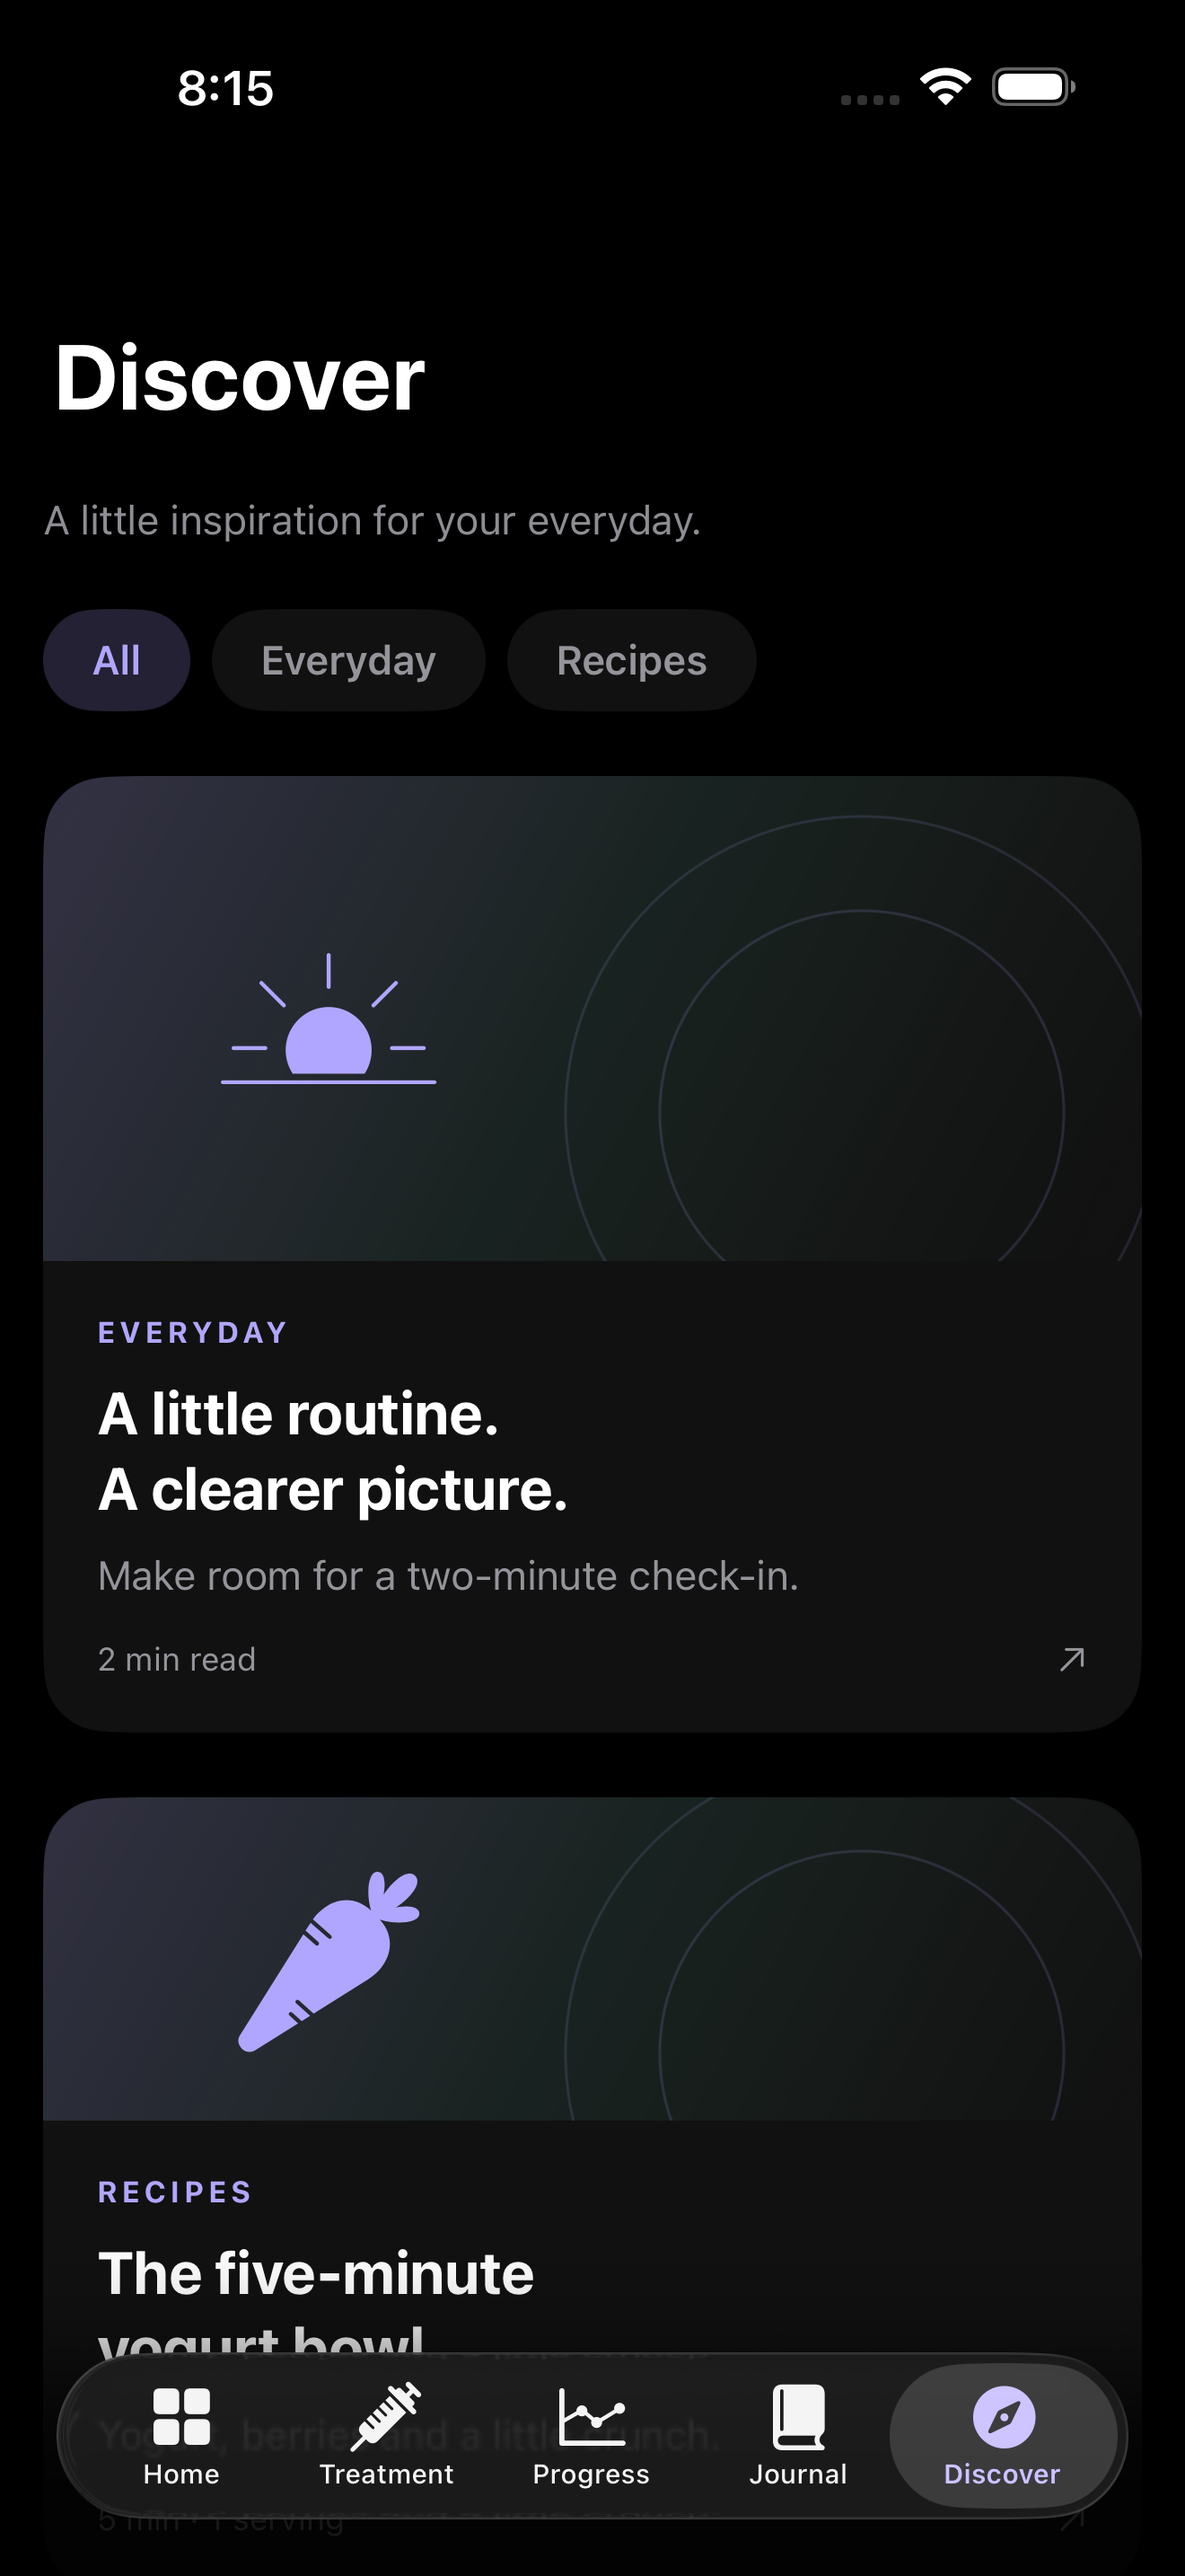
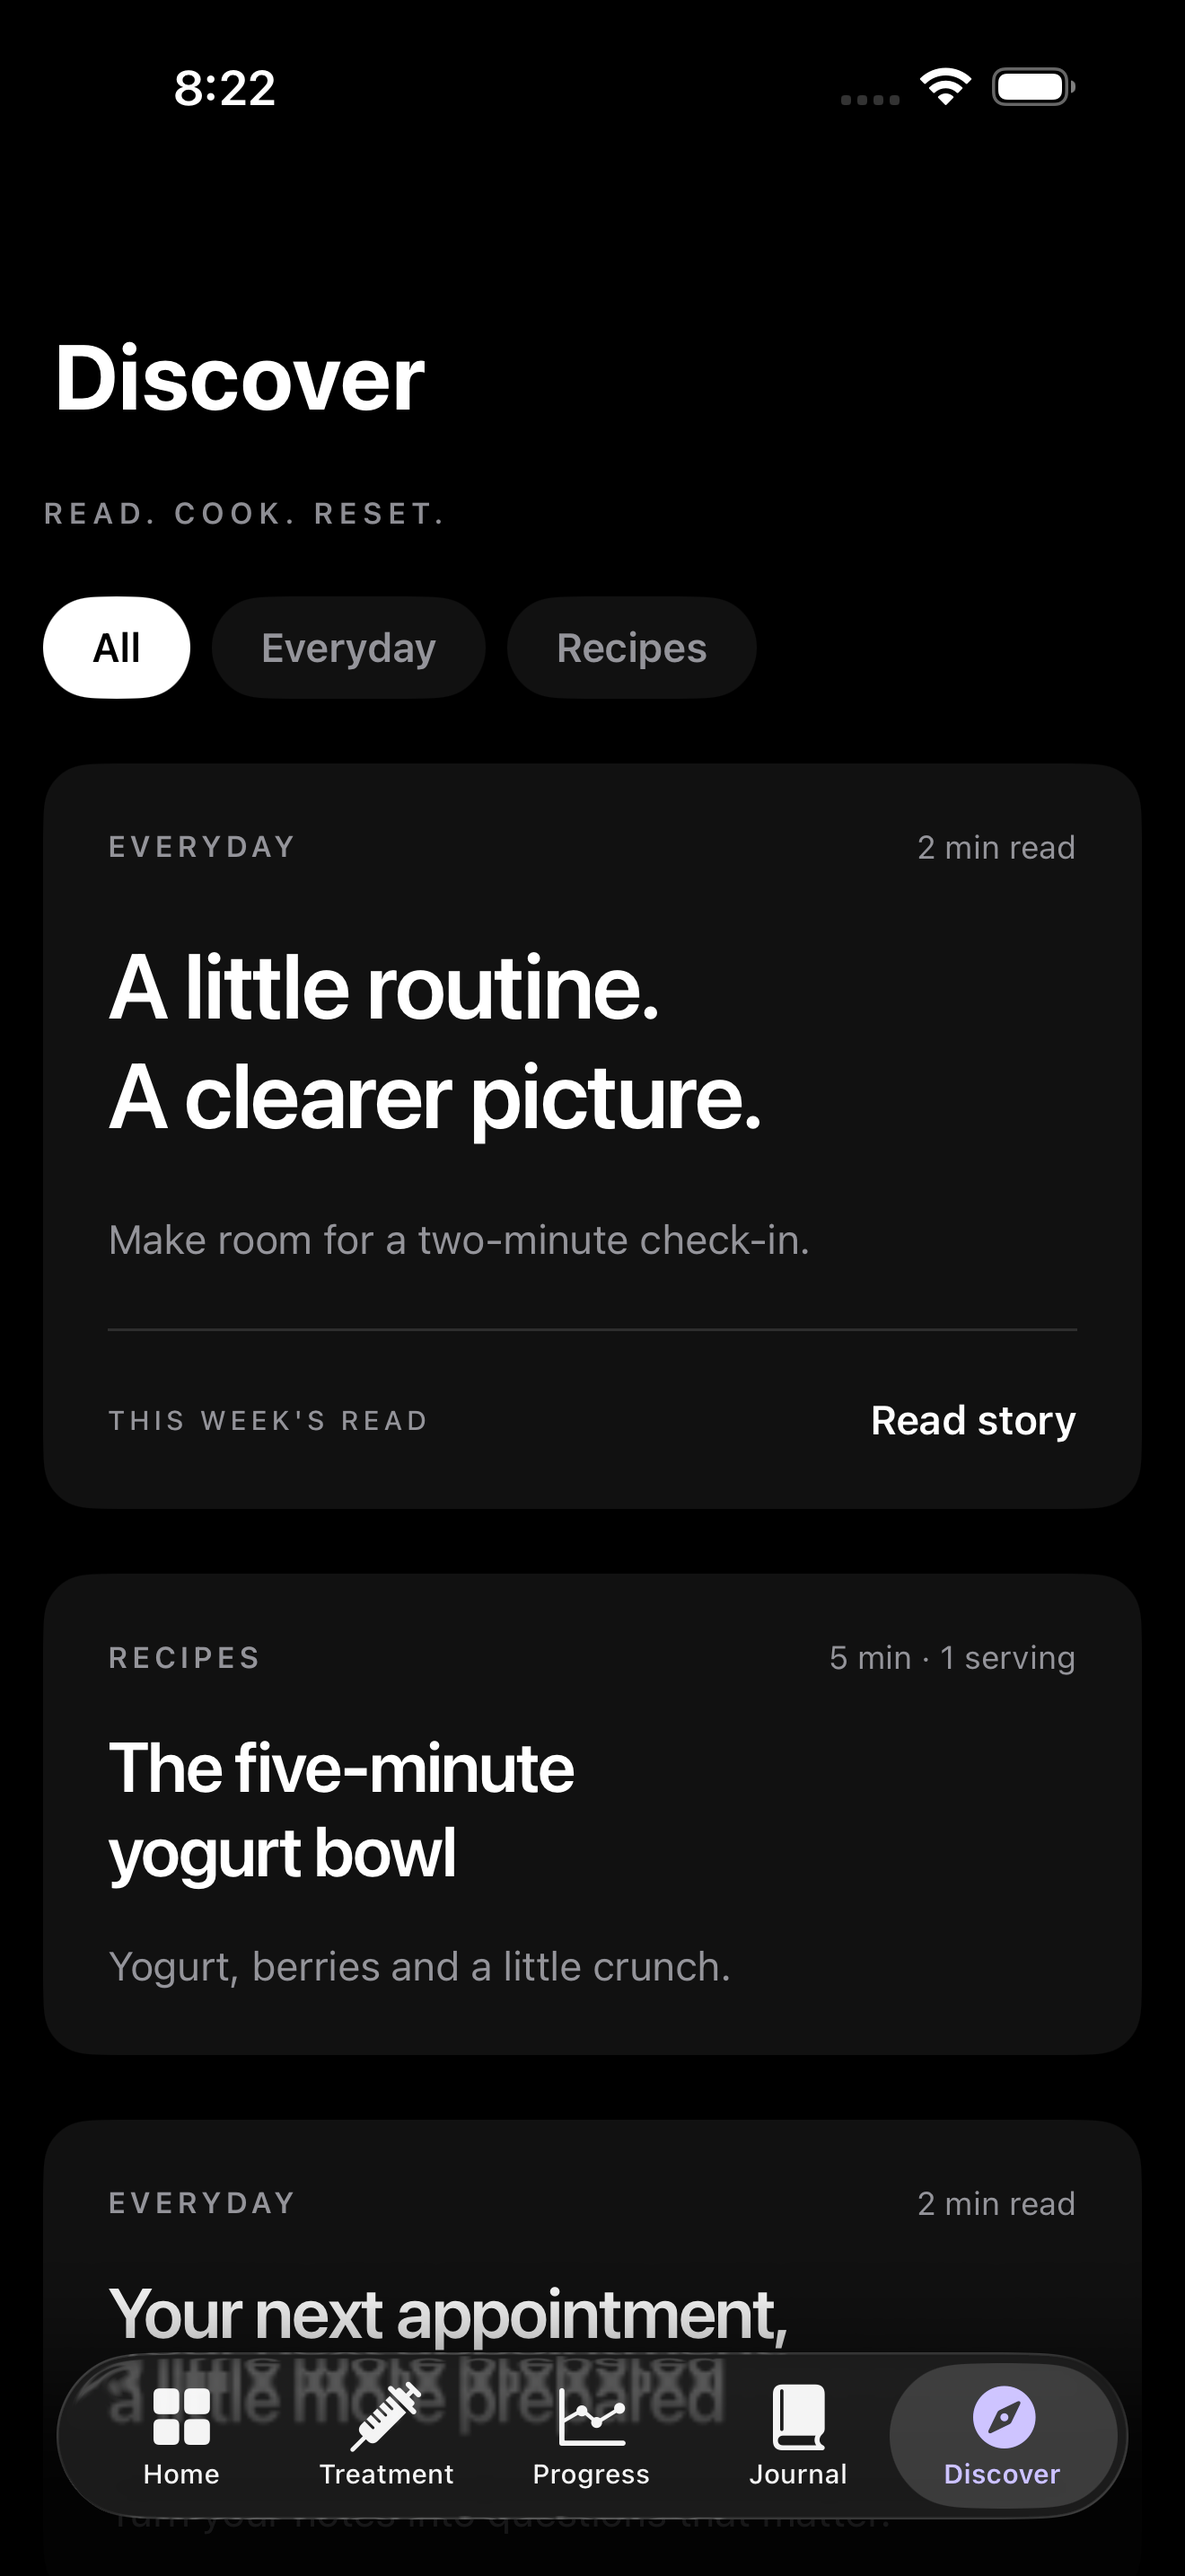
Replace decorative Discover artwork with flat editorial layout

diff --git a/Still/Features/Discover/DiscoverView.swift b/Still/Features/Discover/DiscoverView.swift
@@ -6,18 +6,17 @@ private struct Editorial: Identifiable {
     let title: String
     let summary: String
     let duration: String
-    let symbol: String
     let sections: [(String, String)]
     static let collection: [Editorial] = [
-        .init(id: "journal", category: "Everyday", title: "A little routine.\nA clearer picture.", summary: "Make room for a two-minute check-in.", duration: "2 min read", symbol: "sun.horizon.fill", sections: [
+        .init(id: "journal", category: "Everyday", title: "A little routine.\nA clearer picture.", summary: "Make room for a two-minute check-in.", duration: "2 min read", sections: [
             ("Keep it easy", "Choose a moment that already belongs to your day: after brushing your teeth, before breakfast, or when you put your phone on charge. Open your journal and record what you want to remember."),
             ("Leave yourself a useful note", "A short observation is enough. You might note when you weighed yourself, how your appetite felt, or a question you want to take to your next appointment."),
             ("Come back without catching up", "A missed entry does not need a perfect reconstruction. Add what you remember, choose the actual date, and carry on from today.")]),
-        .init(id: "bowl", category: "Recipes", title: "The five-minute\nyogurt bowl", summary: "Yogurt, berries and a little crunch.", duration: "5 min · 1 serving", symbol: "carrot.fill", sections: [
+        .init(id: "bowl", category: "Recipes", title: "The five-minute\nyogurt bowl", summary: "Yogurt, berries and a little crunch.", duration: "5 min · 1 serving", sections: [
             ("Ingredients", "150 g plain Greek yogurt\n½ cup berries, washed\n2 tablespoons rolled oats\n1 tablespoon chopped nuts, optional\nA pinch of cinnamon"),
             ("Put it together", "Spoon the yogurt into a bowl. Add the berries and oats, then finish with nuts and cinnamon. Use a dairy-free alternative or leave out the nuts if needed for your dietary preferences or allergies."),
             ("Make it yours", "Swap the berries for chopped peach or pear. For softer oats, stir them into the yogurt the night before and refrigerate. This is a recipe idea, not a personalized meal plan.")]),
-        .init(id: "appointment", category: "Everyday", title: "Your next appointment,\na little more prepared", summary: "Turn your notes into questions that matter.", duration: "2 min read", symbol: "text.book.closed.fill", sections: [
+        .init(id: "appointment", category: "Everyday", title: "Your next appointment,\na little more prepared", summary: "Turn your notes into questions that matter.", duration: "2 min read", sections: [
             ("Start with your journal", "Look back at your recorded doses, dates and notes. If something is missing or uncertain, mark that down instead of guessing."),
             ("Pick your questions", "What has been easy? What has been difficult? Is there a pattern you would like your clinician to help explain? Bring questions about your medication and schedule to the person prescribing it."),
             ("Keep estimates in context", "The medication graph is a simplified model based on your entries, not a measurement. Share your actual dose records and observations alongside any chart.")])
@@ -31,32 +30,42 @@ struct DiscoverView: View {
         NavigationStack {
             ScrollView {
                 VStack(alignment: .leading, spacing: 24) {
-                    Text("A little inspiration for your everyday.").font(.subheadline).foregroundStyle(.secondary)
+                    Text("READ. COOK. RESET.").font(.caption2.weight(.semibold)).tracking(2).foregroundStyle(.secondary)
                     HStack(spacing: 8) {
                         ForEach(["All", "Everyday", "Recipes"], id: \.self) { item in
                             Button { category = item } label: {
                                 Text(item).font(.subheadline.weight(.semibold)).padding(.horizontal, 18).padding(.vertical, 10)
-                                    .background(category == item ? Theme.pine.opacity(0.2) : Theme.card, in: Capsule())
-                                    .foregroundStyle(category == item ? Theme.pine : .secondary)
+                                    .background(category == item ? Color.primary : Theme.card, in: Capsule())
+                                    .foregroundStyle(category == item ? Theme.background : Color.secondary)
                             }.buttonStyle(.plain)
                         }
                     }
                     ForEach(articles) { article in
                         NavigationLink { ArticleView(article: article) } label: {
-                            VStack(alignment: .leading, spacing: 0) {
-                                EditorialArtwork(symbol: article.symbol).frame(height: article.id == "journal" ? 180 : 120).clipped()
-                                VStack(alignment: .leading, spacing: 10) {
-                                    Text(article.category.uppercased()).font(.caption2.weight(.bold)).tracking(1.5).foregroundStyle(Theme.pine)
-                                    Text(article.title).font(.title2.weight(.bold)).fixedSize(horizontal: false, vertical: true).foregroundStyle(.primary)
-                                    Text(article.summary).font(.subheadline).foregroundStyle(.secondary)
-                                    HStack { Text(article.duration); Spacer(); Image(systemName: "arrow.up.right") }.font(.caption).foregroundStyle(.secondary).padding(.top, 5)
-                                }.padding(20)
-                            }.background(Theme.card, in: RoundedRectangle(cornerRadius: 24)).clipShape(RoundedRectangle(cornerRadius: 24))
+                            VStack(alignment: .leading, spacing: article.id == "journal" ? 24 : 18) {
+                                HStack {
+                                    Text(article.category.uppercased()).font(.caption2.weight(.semibold)).tracking(1.5)
+                                    Spacer()
+                                    Text(article.duration).font(.caption)
+                                }.foregroundStyle(.secondary)
+                                Text(article.title)
+                                    .font(.system(size: article.id == "journal" ? 34 : 26, weight: .semibold))
+                                    .tracking(-0.9).fixedSize(horizontal: false, vertical: true).foregroundStyle(.primary)
+                                Text(article.summary).font(.subheadline).foregroundStyle(.secondary)
+                                if article.id == "journal" {
+                                    Rectangle().fill(.primary.opacity(0.12)).frame(height: 1)
+                                    HStack {
+                                        Text("THIS WEEK'S READ").font(.system(size: 10, weight: .medium)).tracking(1.5).foregroundStyle(.secondary)
+                                        Spacer()
+                                        Text("Read story").font(.subheadline.weight(.semibold)).foregroundStyle(.primary)
+                                    }
+                                }
+                            }.padding(24).frame(maxWidth: .infinity, alignment: .leading)
+                                .background(Theme.card, in: RoundedRectangle(cornerRadius: 18))
                         }.buttonStyle(.plain)
                     }
                     NavigationLink { AssistantPreview() } label: {
                         HStack(spacing: 16) {
-                            Image(systemName: "sparkles").font(.title2).foregroundStyle(Theme.pine)
                             VStack(alignment: .leading, spacing: 5) { Text("A space to talk").font(.headline); Text("Assistant · Coming soon").font(.caption).foregroundStyle(.secondary) }
                             Spacer(); Image(systemName: "chevron.right").font(.caption).foregroundStyle(.secondary)
                         }.card()
@@ -67,26 +76,11 @@ struct DiscoverView: View {
     }
 }
 
-private struct EditorialArtwork: View {
-    let symbol: String
-    var body: some View {
-        GeometryReader { geometry in
-            ZStack {
-                LinearGradient(colors: [Theme.pine.opacity(0.22), Theme.aqua.opacity(0.09), Theme.card], startPoint: .topLeading, endPoint: .bottomTrailing)
-                Circle().stroke(Theme.pine.opacity(0.13), lineWidth: 1).frame(width: 220, height: 220).offset(x: 100, y: 35)
-                Circle().stroke(Theme.pine.opacity(0.15), lineWidth: 1).frame(width: 150, height: 150).offset(x: 100, y: 35)
-                Image(systemName: symbol).font(.system(size: 64, weight: .ultraLight)).foregroundStyle(Theme.pine).offset(x: -geometry.size.width * 0.24)
-            }.frame(width: geometry.size.width, height: geometry.size.height)
-        }.accessibilityHidden(true)
-    }
-}
-
 private struct ArticleView: View {
     let article: Editorial
     var body: some View {
         ScrollView {
             VStack(alignment: .leading, spacing: 28) {
-                EditorialArtwork(symbol: article.symbol).frame(height: 200).clipShape(RoundedRectangle(cornerRadius: 24))
                 VStack(alignment: .leading, spacing: 12) {
                     Text("\(article.category) · \(article.duration)").font(.caption.weight(.semibold)).foregroundStyle(Theme.pine)
                     Text(article.title).font(.largeTitle.bold()).fixedSize(horizontal: false, vertical: true)

diff --git a/StillUITests/StillUITests.swift b/StillUITests/StillUITests.swift
@@ -17,7 +17,7 @@ final class StillUITests: XCTestCase {
         app.tabBars.buttons["Journal"].tap()
         capture("Journal")
         app.tabBars.buttons["Discover"].tap()
-        XCTAssertTrue(app.staticTexts["A little inspiration for your everyday."].waitForExistence(timeout: 3))
+        XCTAssertTrue(app.staticTexts["READ. COOK. RESET."].waitForExistence(timeout: 3))
         capture("Discover")
         app.buttons["Recipes"].tap()
         app.staticTexts["The five-minute\nyogurt bowl"].tap()
